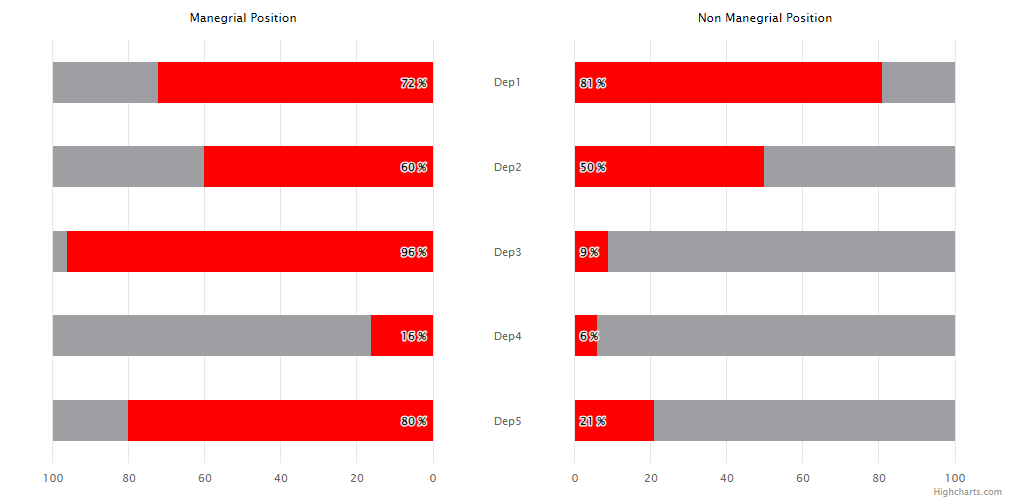
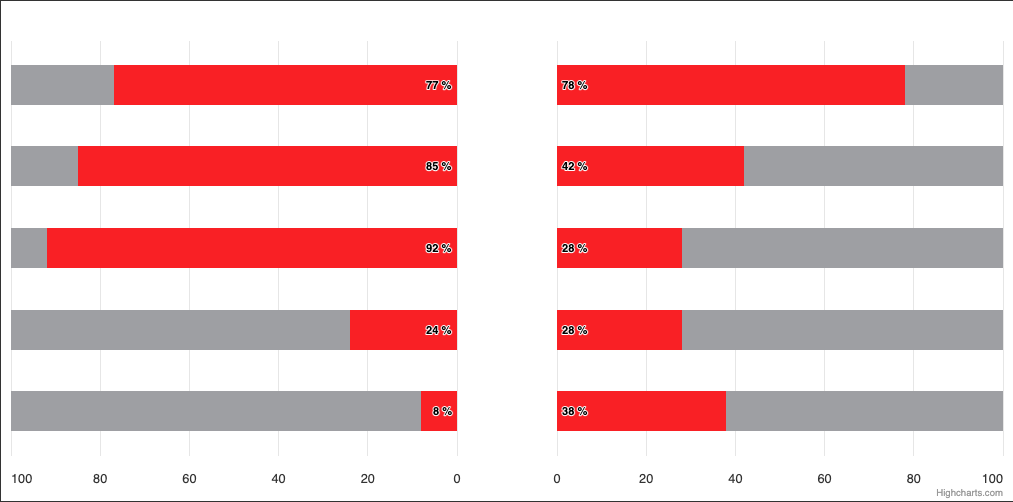
Added tests for the 08-separate-axes exercise.

diff --git a/tests/specs/h08.test.cy.js b/tests/specs/h08.test.cy.js
@@ -1,5 +1,94 @@
 describe('template spec', () => {
-  it('passes', () => {
-    cy.visit('https://example.cypress.io')
-  })
-})
+  const screenWidth = 800;
+  const sides = ['left', 'right'];
+
+  beforeEach(() => {
+    cy.viewport(screenWidth, 600);
+    cy.visit('../../exercises/08-separate-axes/index.html');
+  });
+
+  it('Horizontal axes should be initialized and positioned correctly', () => {
+    cy.window().its('Highcharts').then(Highcharts => {
+      const chart = Highcharts.charts[0];
+      expect(chart, 'chart should be initialized').to.exist;
+
+      let leftAxis, rightAxis;
+      chart.yAxis.forEach((yAxis, i) => {
+        expect(yAxis, `yAxis ${i}: min should be 0`).to.have.property('min', 0);
+        expect(yAxis, `yAxis ${i}: max should be 100`).to.have.property('max', 100);
+        expect(yAxis.len, `yAxis ${i}: width should be less than a half of the viewport width`).to.lessThan(screenWidth / 2);
+
+        if (yAxis.reversed) {
+          leftAxis = yAxis;
+        } else {
+          rightAxis = yAxis;
+        }
+      });
+
+      expect(leftAxis, 'left axis should be initialized').to.exist;
+      expect(rightAxis, 'right axis should be initialized').to.exist;
+      expect(leftAxis.left, 'left axis should be positioned on the left').to.be.equal(chart.plotLeft);
+      expect(rightAxis.left, 'right axis should be positioned on the right').to.be.greaterThan(chart.plotWidth / 2);
+    });
+  });
+
+  it('Vertical axes should be hidden', () => {
+    cy.window().its('Highcharts').then(Highcharts => {
+      const chart = Highcharts.charts[0];
+      expect(chart, 'chart should be initialized').to.exist;
+
+      expect(chart.xAxis[0].visible, 'xAxis should be hidden').to.be.false;
+    });
+  });
+
+  it('Series should be set correctly', () => {
+    cy.window().its('Highcharts').then(Highcharts => {
+      const chart = Highcharts.charts[0];
+
+      const realSeries = {};
+      const mockSeries = {};
+      for (const s of chart.series) {
+        const side = s.yAxis.reversed ? 'left' : 'right';
+        if (s.options.enableMouseTracking) {
+          realSeries[side] = s;
+        } else {
+          mockSeries[side] = s;
+        }
+
+        expect(s.data.length, 'Every series should have 5 points').to.be.equal(5);
+      }
+
+      for (const sideId in sides) {
+        const side = sides[sideId];
+        const oppositeSide = sides[1 - sideId];
+        const mock = mockSeries[side];
+        const real = realSeries[side];
+
+        expect(mock, `The ${side} mock (non-hoverable) series exists`).to.exist;
+        expect(mock.visible, `The ${side} mock series is visible`).to.be.true;
+
+        expect(real, `The ${side} real (hoverable) series exists`).to.exist;
+        expect(real.visible, `The ${side} real series is visible`).to.be.true;
+        
+        const mockZIndex = mock.options.zIndex ?? 0;
+        const realZIndex = real.options.zIndex ?? 0;
+        if (mockZIndex === realZIndex) {
+          expect(mock.index, `The ${side} mock series should have a lower index than the real series`).to.be.lessThan(real.index);
+        } else {
+          expect(realZIndex, `The ${side} real series should have a higher z-index than the mock series`).to.be.greaterThan(mockZIndex);
+        }
+
+        expect(mock.yData, `Every point in the ${side} mock series should be 100`).to.deep.equal([100, 100, 100, 100, 100]);
+        
+        const grouping = (mock.options.grouping ?? true) && (real.options.grouping ?? true);
+        expect(grouping, `The ${side} series should have grouping disabled`).to.be.false;
+
+        expect(mock.options.dataLabels.enabled ?? false, `The ${side} mock series should have data labels disabled`).to.be.false;
+        expect(real.options.dataLabels.enabled, `The ${side} real series should have data labels enabled`).to.be.true;
+
+        expect(real.options.dataLabels.inside, `The ${side} real series should have data labels inside the bars`).to.be.true;
+        expect(real.options.dataLabels.align, `The ${side} real series should have data labels aligned to the ${oppositeSide}`).to.be.equal(oppositeSide);
+      }
+    });
+  });
+});

diff --git a/exercises/08-separate-axes/README.md b/exercises/08-separate-axes/README.md
@@ -2,10 +2,13 @@
 
 Create a bar chart with two separate red series on the separate axes. For reference, see the image below.
 
-Remember that:
-* Labels between the series (Dep1, Dep2...) should be centered.
-* Axis titles should be created using renderer.
-* Don't forget about the gray background for bars.
-* The whole chart should be responsive  e.g. when resizing the window, the buttons and labels should adjust its position.
+Requirements:
+* Horizontal axes should have extremes exactly from 0 to 100. Axis values on the left should decrease, on the right - increase.
+* Series data labels should be inside the bars and aligned as on the image below.
+* Vertical axis should be invisible.
+* Don't forget about the gray background for bars. Avoid using renderer to draw it, there are much easier ways.
+Remember they should not react to the mouse pointers.
+
+If, after completing the task, some tests still fail, use their descriptions as a guide.
 
 ![exercise.png](exercise.png)
